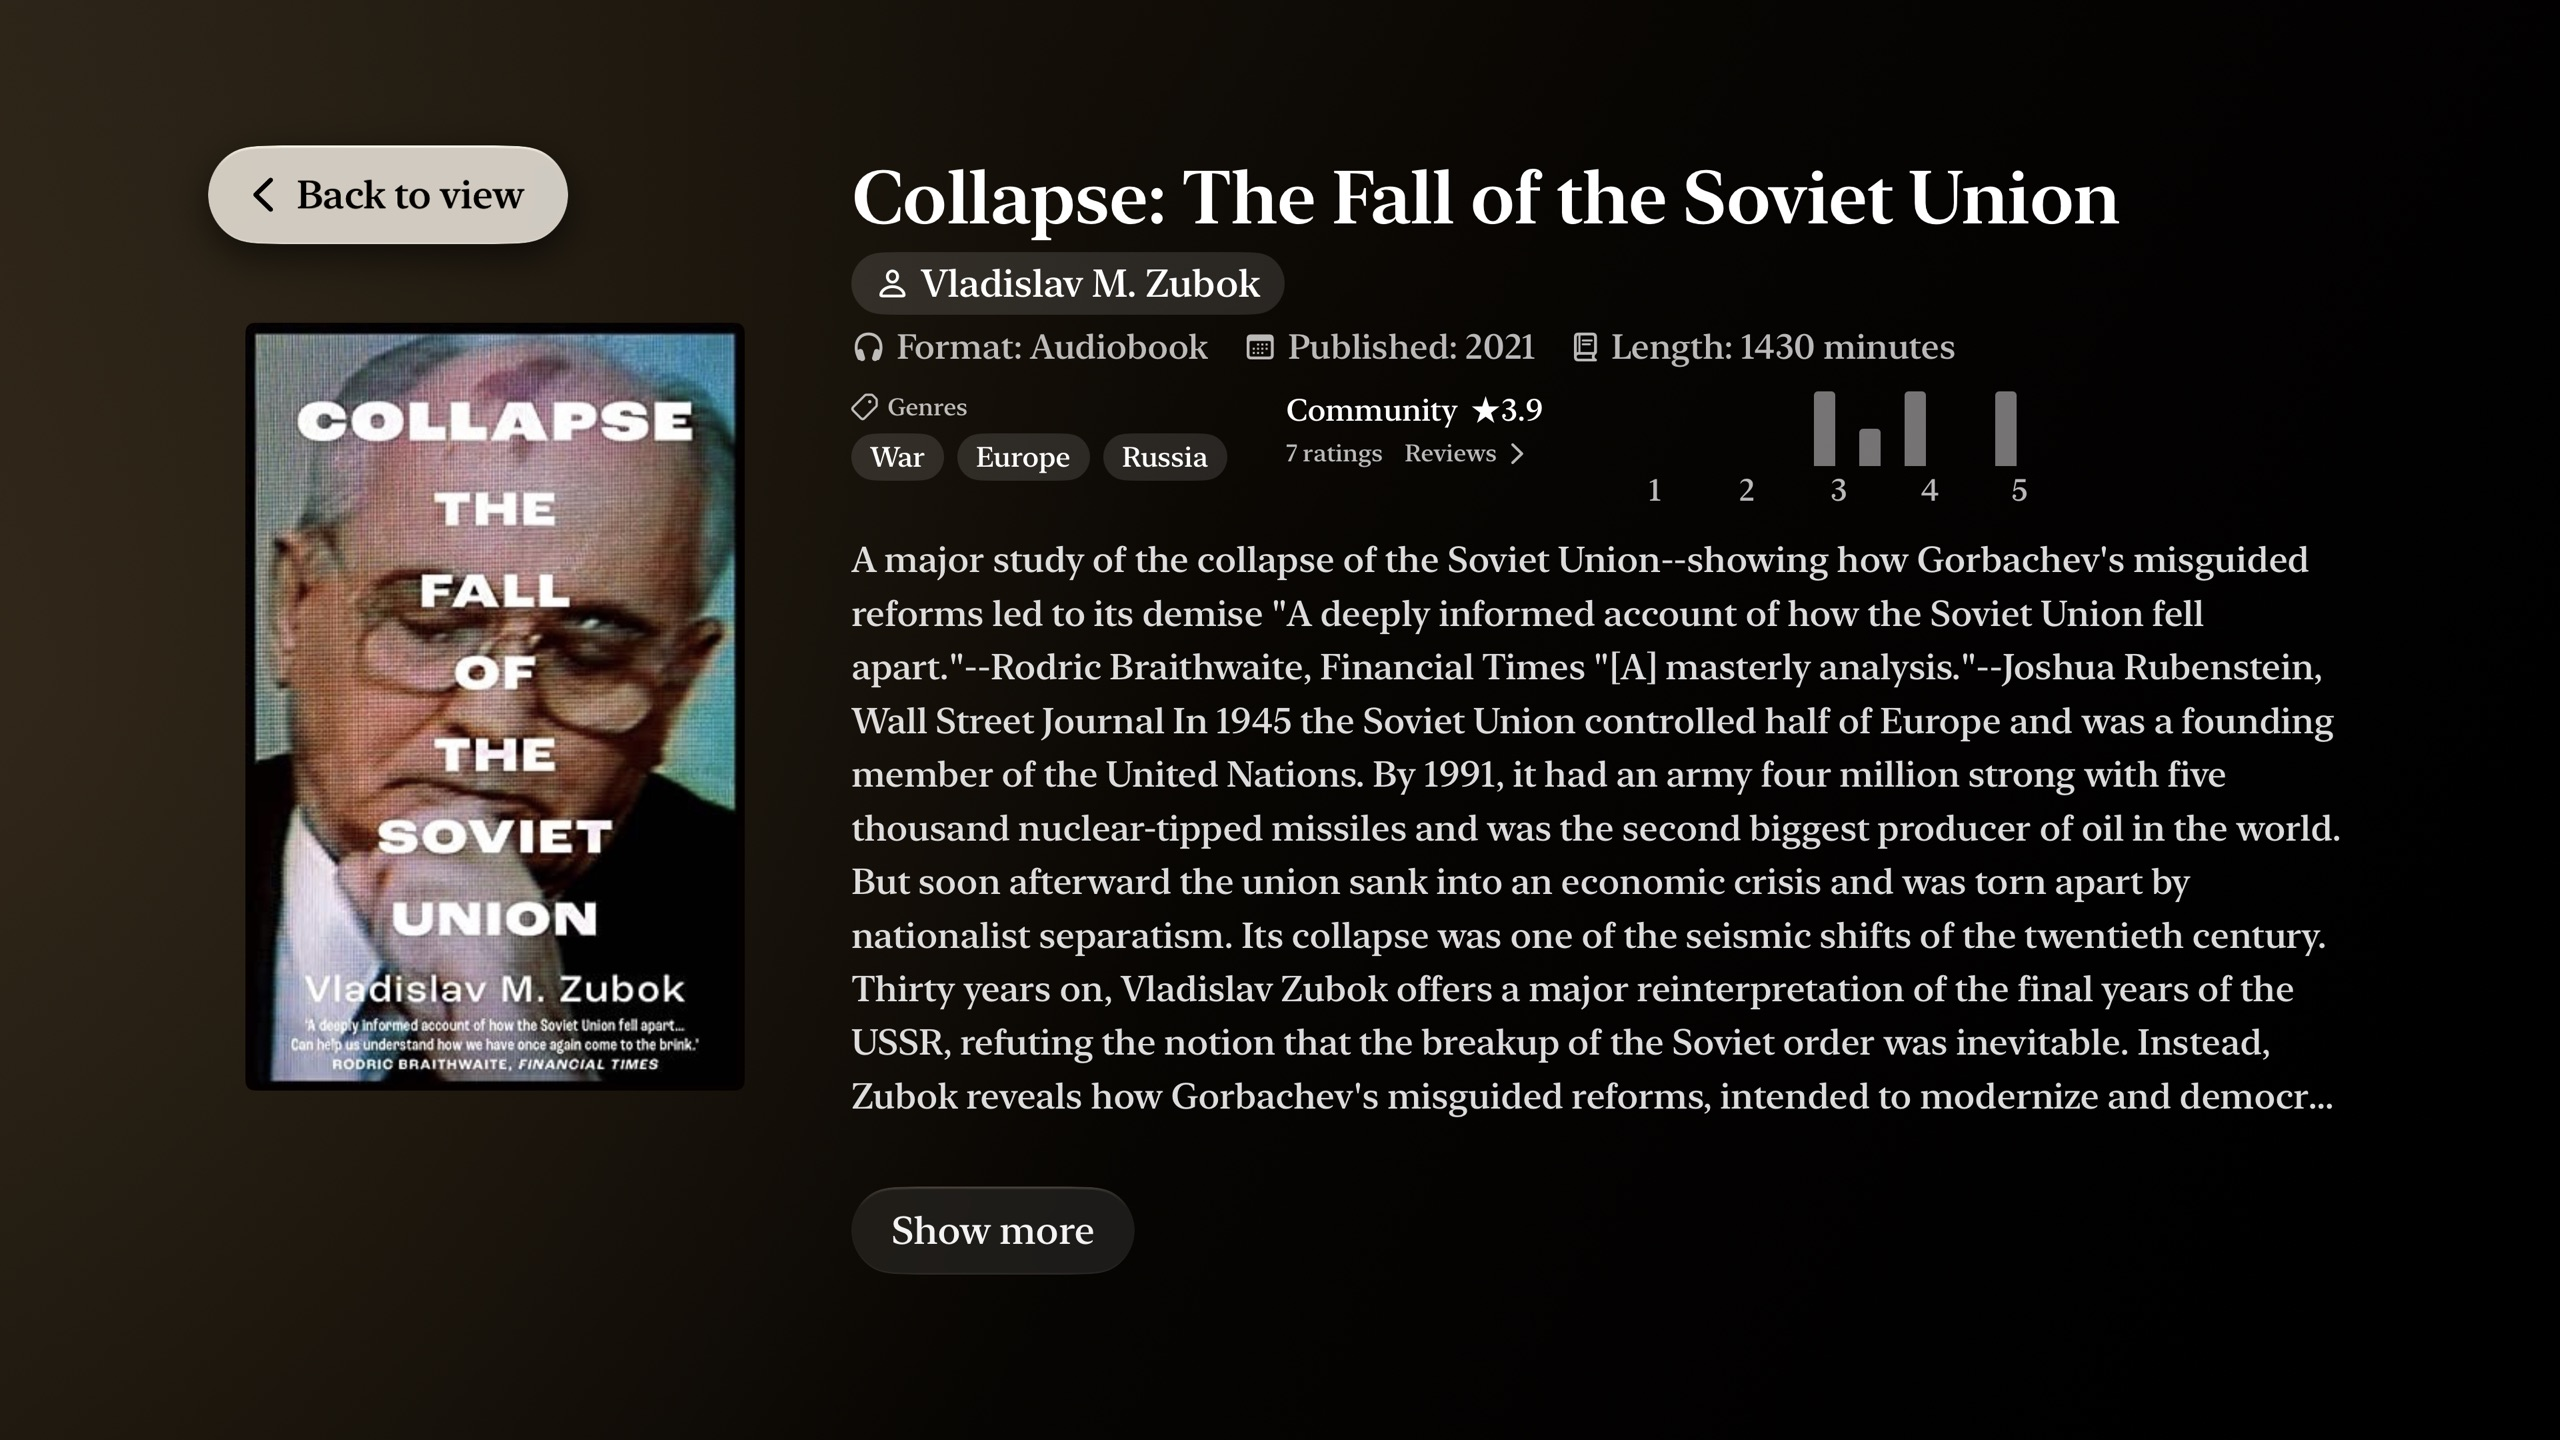
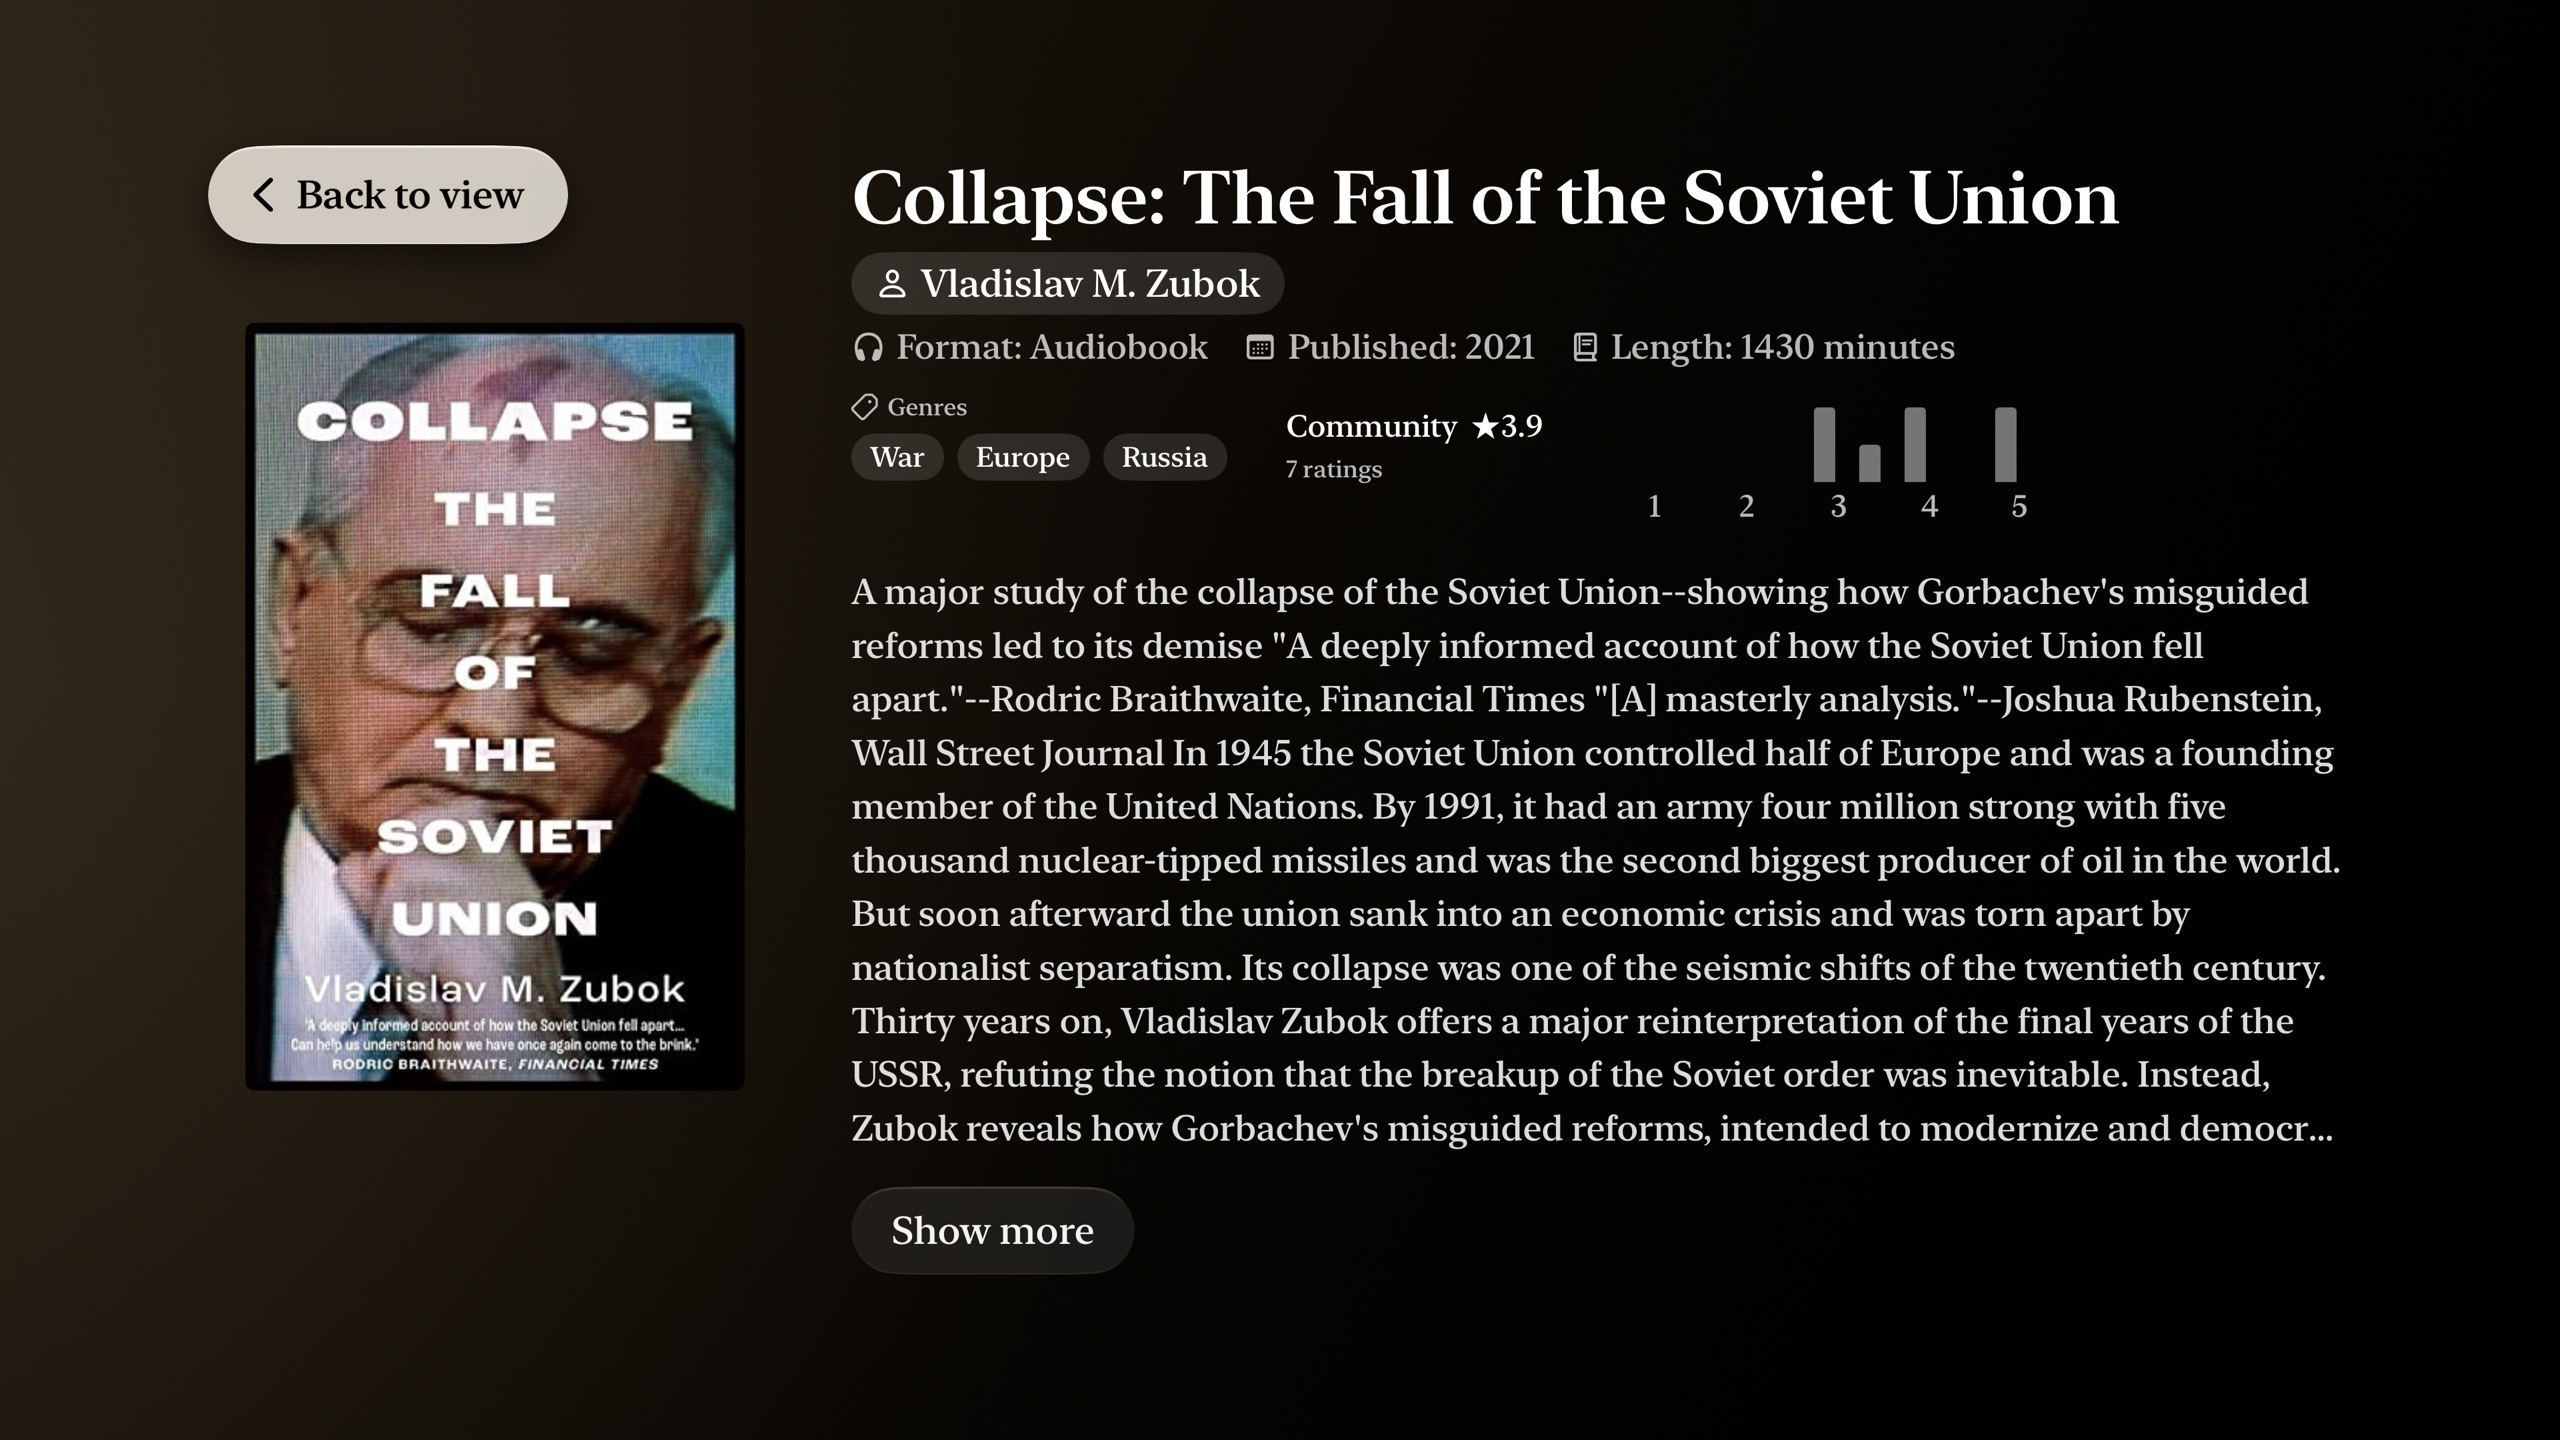
Drop the Reviews cue and give the ratings highlight more room

diff --git a/Bookworms/Views/RatingsView.swift b/Bookworms/Views/RatingsView.swift
@@ -3,8 +3,6 @@ import SwiftUI
 
 struct RatingsView: View {
     let book: Book
-    /// Shows a **Reviews** cue when the chart is the label of a button that opens reviews.
-    var opensReviews = false
 
     private var buckets: [RatingBucket] {
         let counts = Dictionary(
@@ -48,19 +46,10 @@ struct RatingsView: View {
                     .appFont(size: 23, weight: .medium)
                     .accessibilityElement(children: .combine)
                 }
-                HStack(spacing: 16) {
-                    if book.communityRating != nil {
-                        Text("\((book.ratingsCount ?? 0).formatted()) ratings").fixedSize()
-                    }
-                    if opensReviews {
-                        // Fixed so the cue keeps its full width beside the chart.
-                        HStack(spacing: 7) {
-                            Text("Reviews").fixedSize()
-                            Image(systemName: "chevron.right")
-                        }
-                    }
+                if book.communityRating != nil {
+                    Text("\((book.ratingsCount ?? 0).formatted()) ratings")
+                        .appFont(size: 18).foregroundStyle(.detailCaption).padding(.top, 4)
                 }
-                .appFont(size: 18).foregroundStyle(.detailCaption).padding(.top, 4)
             }
             .lineLimit(1).fixedSize()
             if let distribution = book.ratingDistribution, !distribution.isEmpty {

diff --git a/Bookworms/Views/BookDetailView.swift b/Bookworms/Views/BookDetailView.swift
@@ -311,9 +311,11 @@ struct BookDetailView: View {
                     Button {
                         showsReviews = true
                     } label: {
-                        RatingsView(book: book, opensReviews: true)
+                        RatingsView(book: book)
                     }
                     .buttonStyle(FocusHighlightButtonStyle())
+                    // Keeps the focus highlight clear of the facts line and description.
+                    .padding(.vertical, 12)
                     .focusEffectDisabled()
                     .accessibilityHint("Shows community reviews.")
                     .accessibilityIdentifier("community-reviews")
